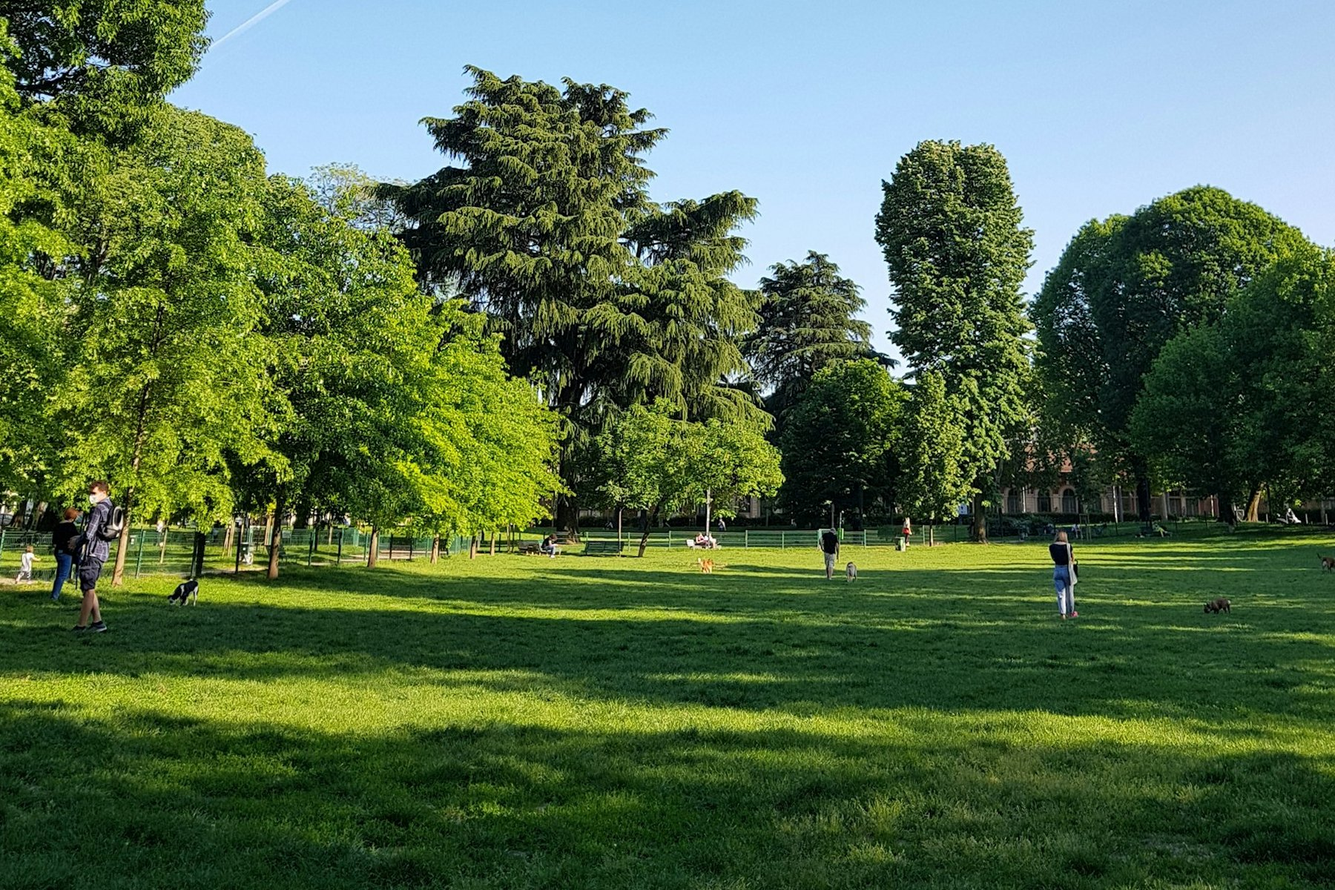
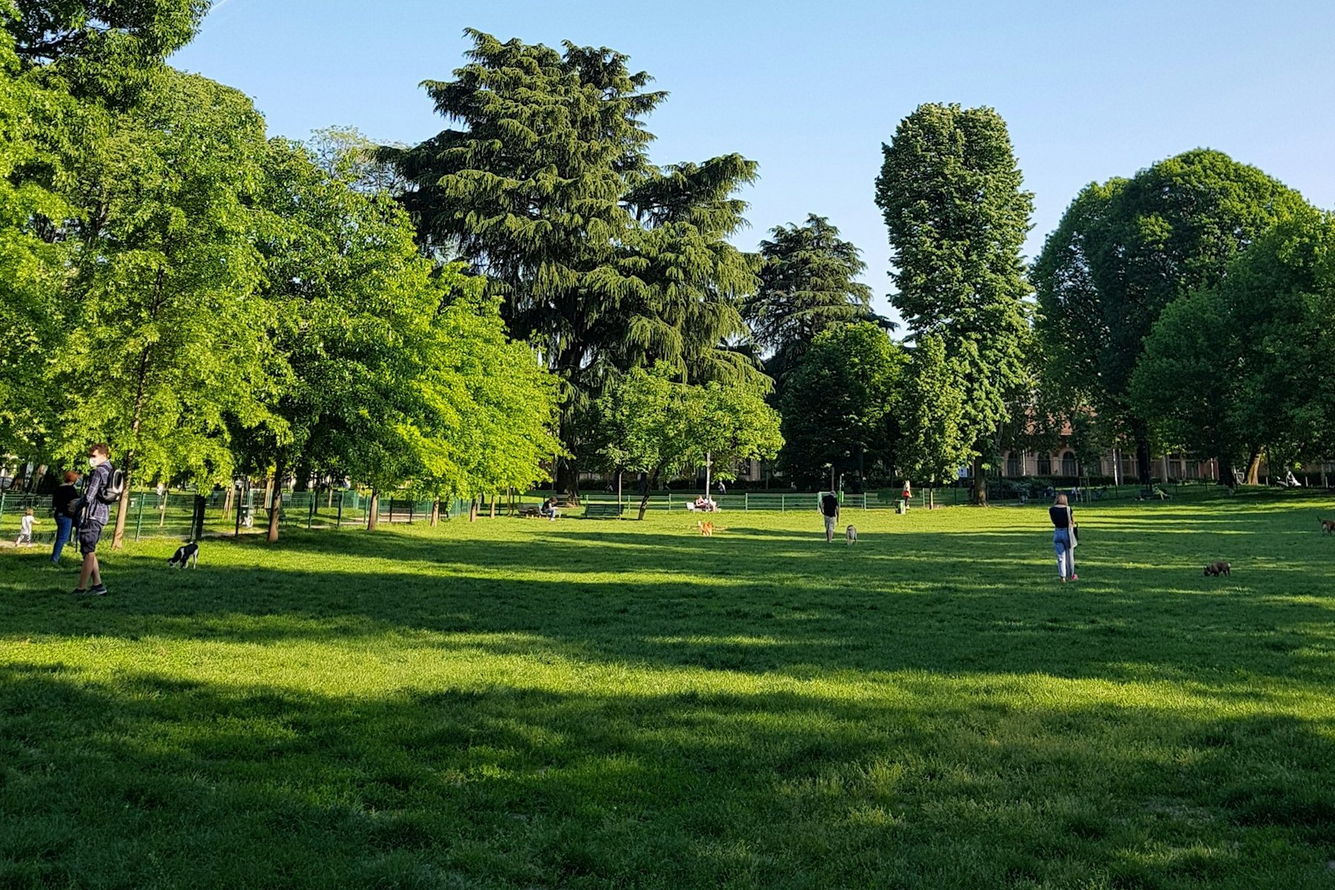
Share the seed fallback URL, tighten the cover crop, fix the alt text
Addresses review on #778: one POST1_FALLBACK_URL constant instead of two copies,
a crop that drops the contrail, and alt text that doesn't claim neighbors.

Claude-Session: https://claude.ai/code/session_01AaWo7Q3udvBpAbu3AEfxmD

diff --git a/src/endpoints/seed/index.ts b/src/endpoints/seed/index.ts
@@ -100,9 +100,7 @@ export const seed = async ({
   // Try to load local images from public/images/, fall back to remote Payload template images
   const [image1Buffer, image2Buffer, image3Buffer, hero1Buffer, parkBuffer] = await Promise.all([
     loadLocalImage('image-asset.jpeg', 'image/jpeg').catch(() =>
-      fetchFileByURL(
-        'https://raw.githubusercontent.com/payloadcms/payload/refs/heads/main/templates/website/src/endpoints/seed/image-post1.webp',
-      ),
+      fetchFileByURL(POST1_FALLBACK_URL),
     ),
     loadLocalImage('image.jpeg', 'image/jpeg').catch(() =>
       fetchFileByURL(
@@ -120,9 +118,7 @@ export const seed = async ({
       ),
     ),
     loadLocalImage('parks-greenspace.jpg', 'image/jpeg').catch(() =>
-      fetchFileByURL(
-        'https://raw.githubusercontent.com/payloadcms/payload/refs/heads/main/templates/website/src/endpoints/seed/image-post1.webp',
-      ),
+      fetchFileByURL(POST1_FALLBACK_URL),
     ),
   ])
 
@@ -460,6 +456,10 @@ const __dirname = path.dirname(__filename)
  * Load an image from the public/images/ directory.
  * Tries multiple possible base paths (dev vs built vs VPS deploy).
  */
+// Remote stand-in used when a local photo is missing
+const POST1_FALLBACK_URL =
+  'https://raw.githubusercontent.com/payloadcms/payload/refs/heads/main/templates/website/src/endpoints/seed/image-post1.webp'
+
 async function loadLocalImage(filename: string, mimetype: string): Promise<File> {
   const possiblePaths = [
     path.resolve(process.cwd(), 'public/images', filename),

diff --git a/src/endpoints/seed/image-park.ts b/src/endpoints/seed/image-park.ts
@@ -1,5 +1,5 @@
 import type { Media } from '@/payload-types'
 
 export const imagePark: Omit<Media, 'createdAt' | 'id' | 'updatedAt'> = {
-  alt: 'Neighbors and their dogs on a sunny park lawn under tall trees',
+  alt: 'People and dogs on a sunny park lawn under tall trees',
 }
